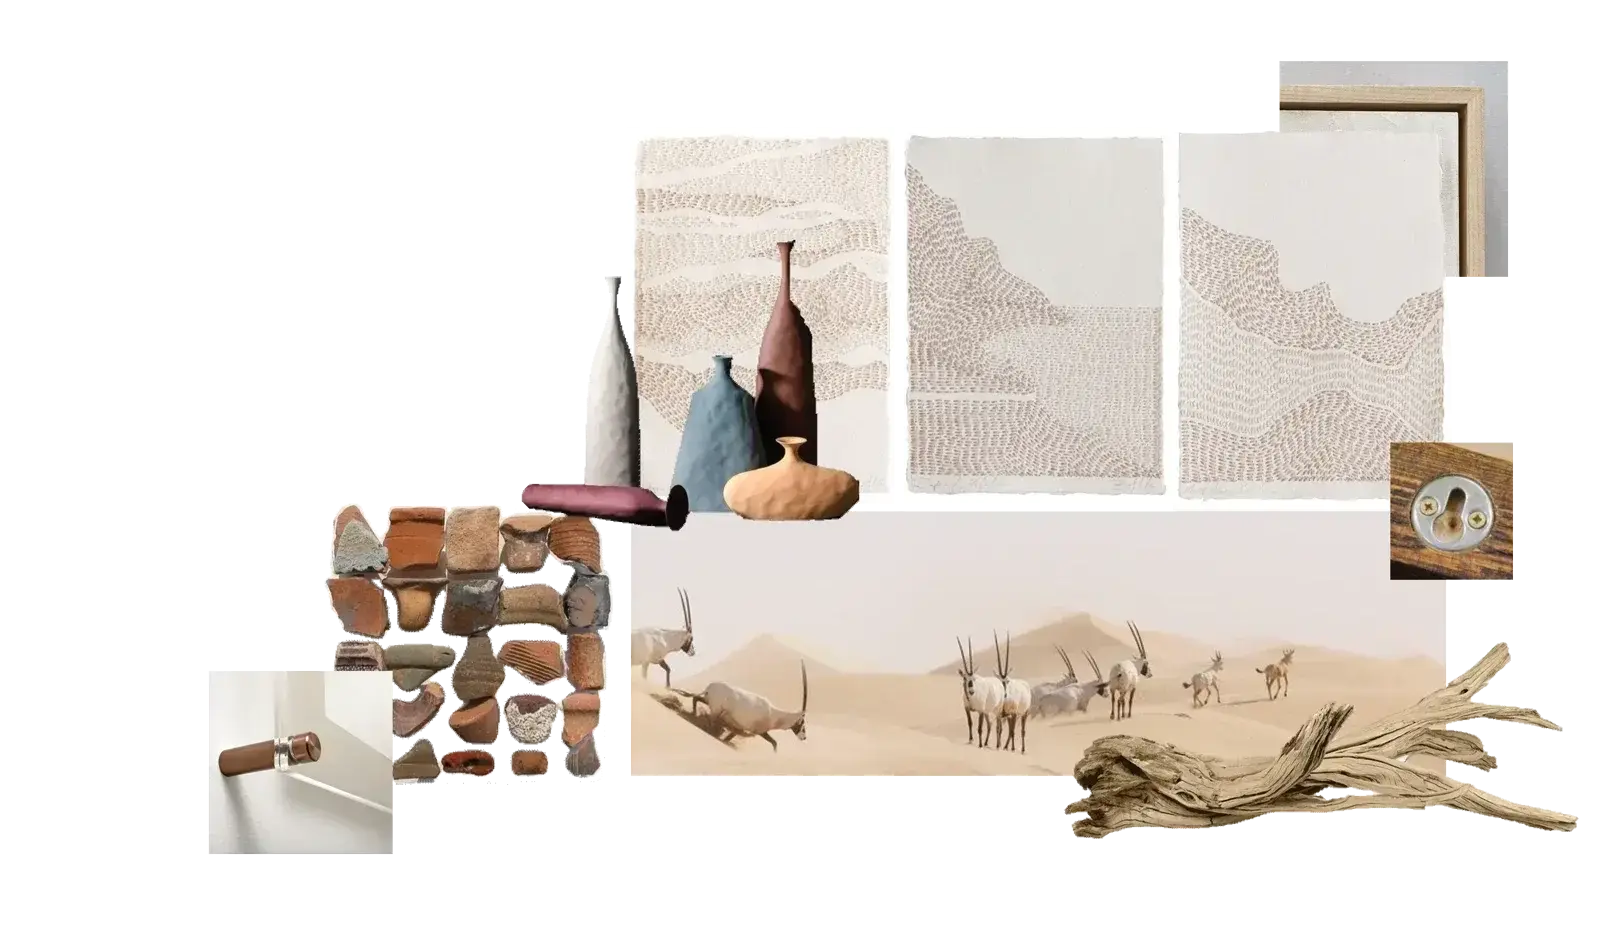
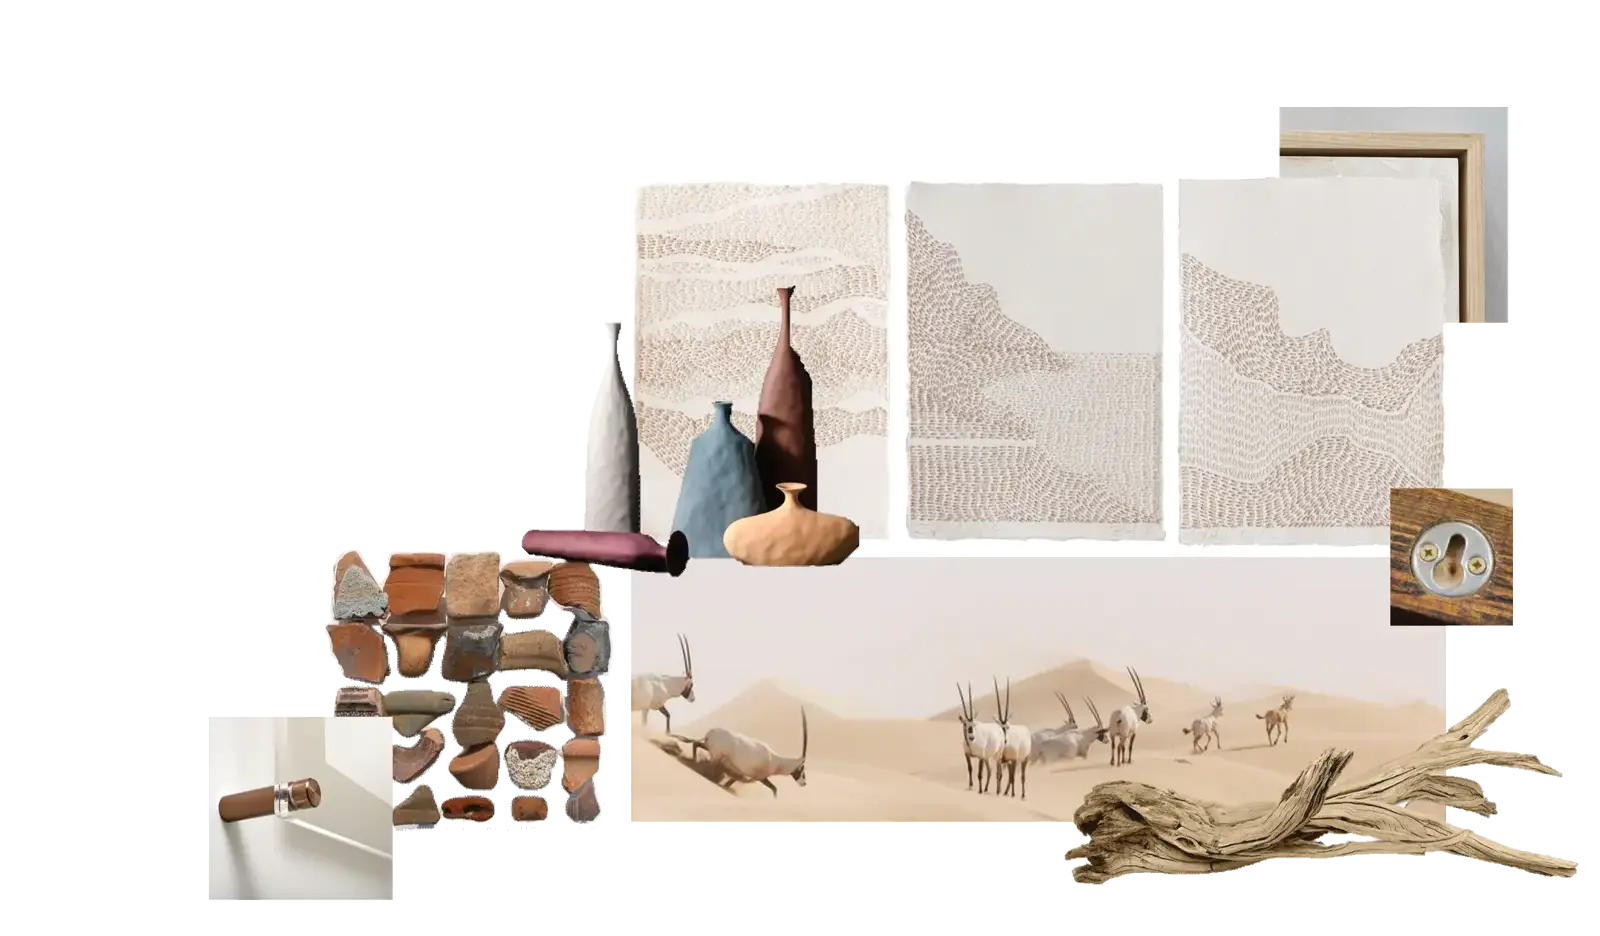
Remove white box behind Fragments of the Island caption, adjust image position

Changed region(s): [[0.125, 0.062, 1.0, 0.9605]]

diff --git a/src/components/ProjectModal.jsx b/src/components/ProjectModal.jsx
@@ -376,7 +376,7 @@ export default function ProjectModal({ project, onClose }) {
               </p>
               <div className="relative">
                 <Img src="/projects/between-tide-time/art-direction.webp" alt="Art direction moodboard: fragments of the island with abstract landscapes and wildlife photography" className="w-full h-auto rounded-sm" />
-                <div className="absolute top-0 left-0 bg-offwhite/90 px-3 py-2 md:px-4 md:py-3 rounded-sm max-w-[70%] md:max-w-xs">
+                <div className="absolute top-0 left-0 px-3 py-2 md:px-4 md:py-3 max-w-[70%] md:max-w-xs">
                   <p className="text-xs italic mb-0 leading-tight" style={{ color: '#fdbf69' }}>Fragments of the Island</p>
                   <ul className="text-[8px] md:text-[10px] text-stone/70 leading-tight list-disc pl-4 space-y-0.5 mt-0.5">
                     <li>Abstract desert landscapes</li>
